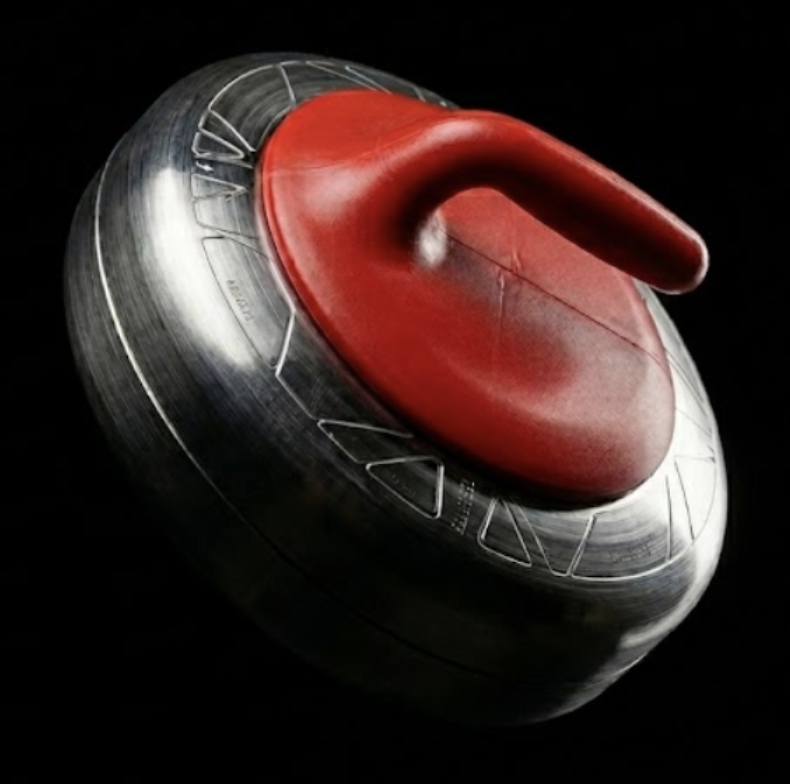
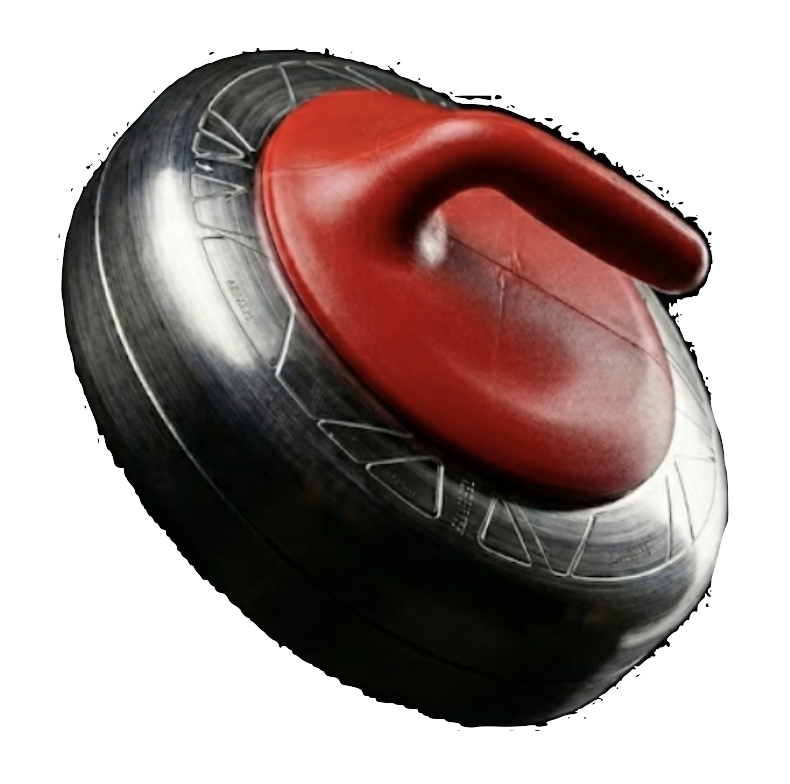
made puck background transparent, attempted to remove black circle

diff --git a/docs/style.css b/docs/style.css
@@ -39,21 +39,6 @@ nav a:hover { color: #aaa; }
 .hero h1 { font-size: 60px; text-transform: uppercase; margin: 0; }
 .hero p { font-size: 18px; max-width: 600px; margin-top: 10px; }
 
-.hero::before {
-    content: "";
-    position: absolute;
-    left: 75%;
-    top: 50%;
-    transform: translate(-50%, -50%);
-    width: 56vh;
-    height: 56vh;
-    border-radius: 50%;
-    background: radial-gradient(circle, rgba(255,60,60,0.5) 0%, rgba(255,60,60,0.0) 65%);
-    box-shadow:
-        0 0 0 0 rgba(255, 60, 60, 0),
-        0 0 180px rgba(255, 60, 60, 0.55);
-}
-
 .hero::after {
     content: "";
     position: absolute;
@@ -63,9 +48,10 @@ nav a:hover { color: #aaa; }
     width: 45vh;
     height: 45vh;
     background: url('./imgs/puck.png') no-repeat center center/contain;
-    border-radius: 50%;
-    /* no box-shadow here so the puck itself stays crisp;
-       the circular glow is provided by .hero::before */
+    /* red glow hugs the puck image, which is already clipped */
+    box-shadow:
+        0 0 0 10px rgba(255, 60, 60, 0.75),
+        0 0 90px rgba(255, 60, 60, 0.6);
     transform-origin: 50% 50%;
     animation: puck-spin 24s linear infinite;
     opacity: 0.95;
